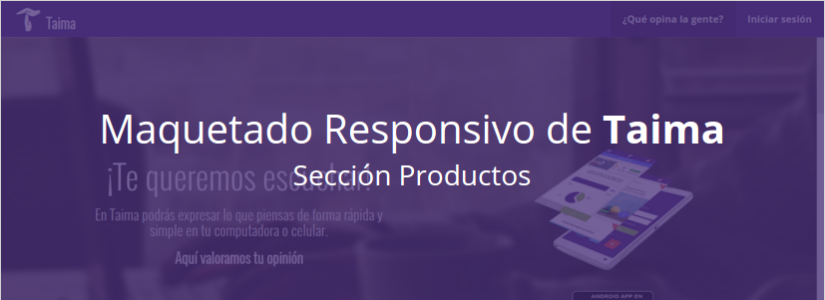
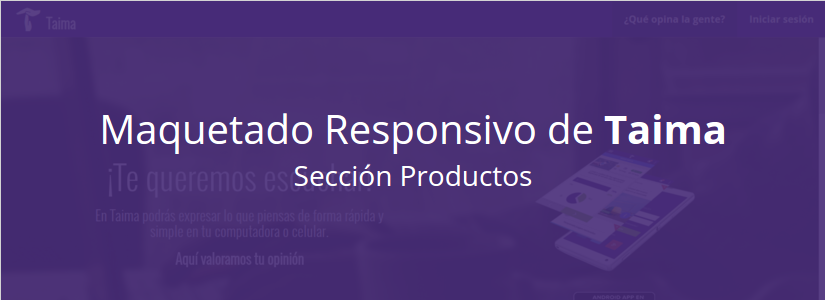
Iniciado npm

diff --git a/gulpfile.js b/gulpfile.js
@@ -5,15 +5,14 @@ const imageminSvgo = require('imagemin-svgo')
 const imageminOptipng = require('imagemin-optipng')
 const imageminJpegtran = require('imagemin-jpegtran')
 const cache = require('gulp-cache')
+const del = require('del')
 
 const globs = {
-  img: {
-    src: './src/**',
-    dist: './dist'
-  }
+  src: './src/**',
+  dist: './dist'
 }
 gulp.task('images', () => {
-  return gulp.src(globs.img.src)
+  return gulp.src(globs.src)
     .pipe(cache(imagemin({
       optimizationLevel: 7,
       progressive: true,
@@ -31,10 +30,17 @@ gulp.task('images', () => {
         { removeEmptyAttrs: false }
       ]
     })))
-    .pipe(gulp.dest(globs.img.dist))
-})
-gulp.task('watch', () => {
-  gulp.watch(globs.img.src, ['images'])
+    .pipe(gulp.dest(globs.dist))
 })
 
-gulp.task('default', ['images', 'watch'])
+gulp.task('clean', (cb) => {
+  return del(globs.dist, cb)
+})
+
+gulp.task('watch', () => {
+  gulp.watch(globs.src, ['images'])
+})
+
+gulp.task('default', ['clean'], () => {
+  gulp.start('images', 'watch')
+})

diff --git a/styles/taima.css b/styles/taima.css
@@ -16,7 +16,7 @@ main{
   margin: 0 auto;
   width: 825px;
   height: 300px;
-  background-image: url('../images/taima.png');
+  background-image: url('../dist/taima.png');
   background-repeat: no-repeat;
   background-size: cover;
   text-align: center;
